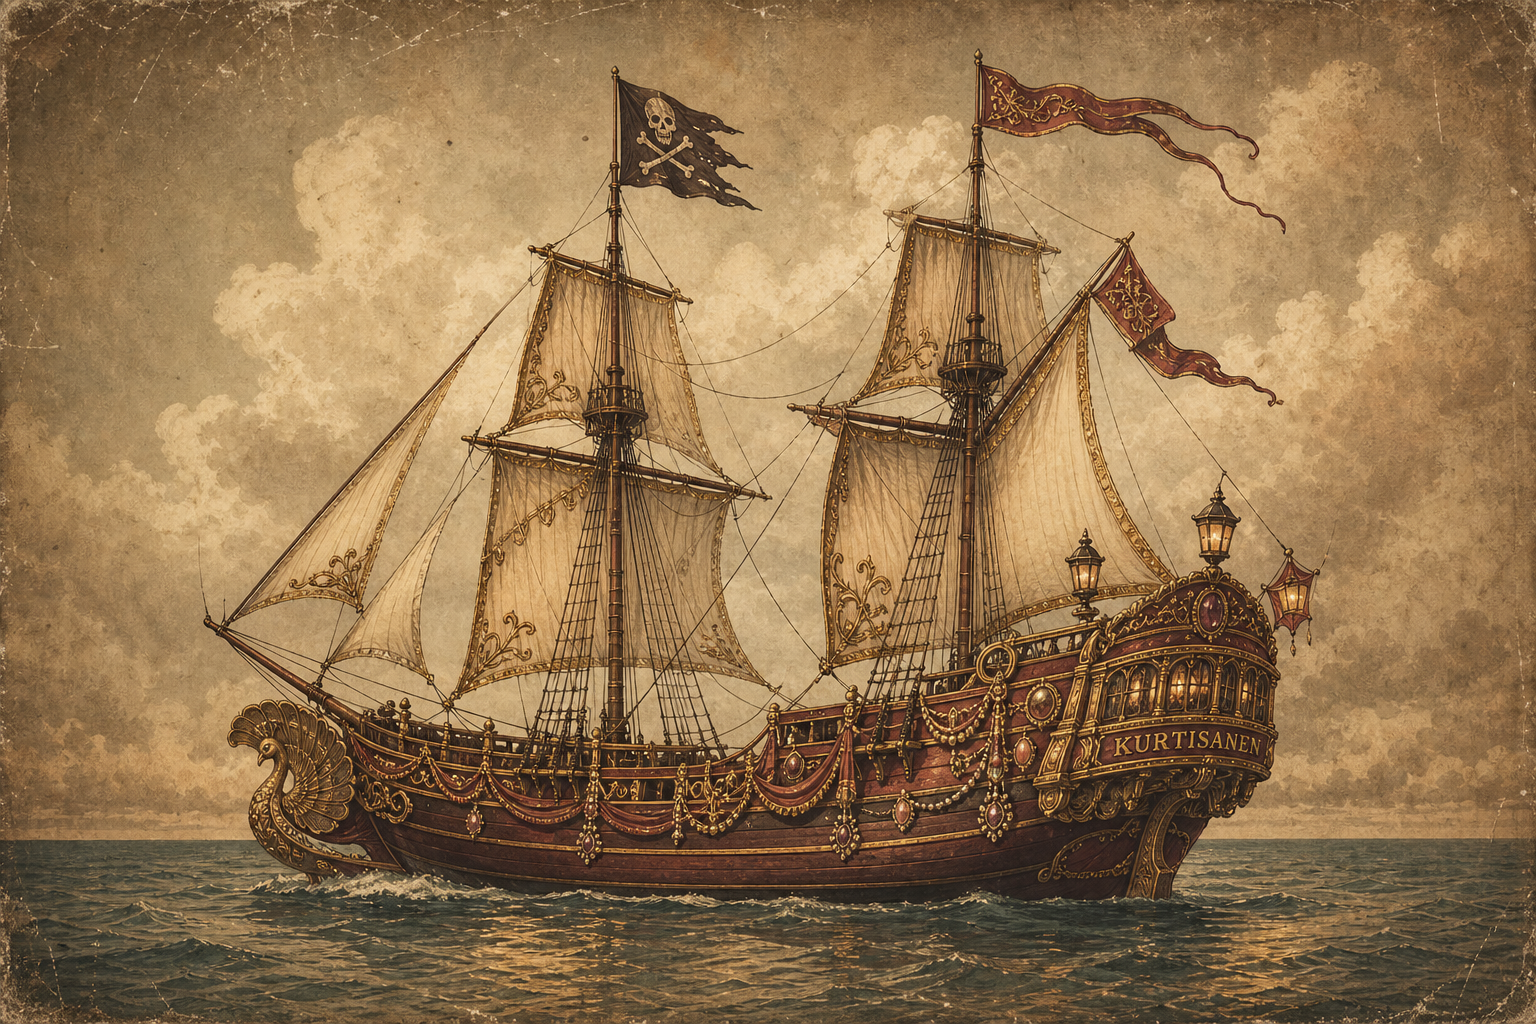
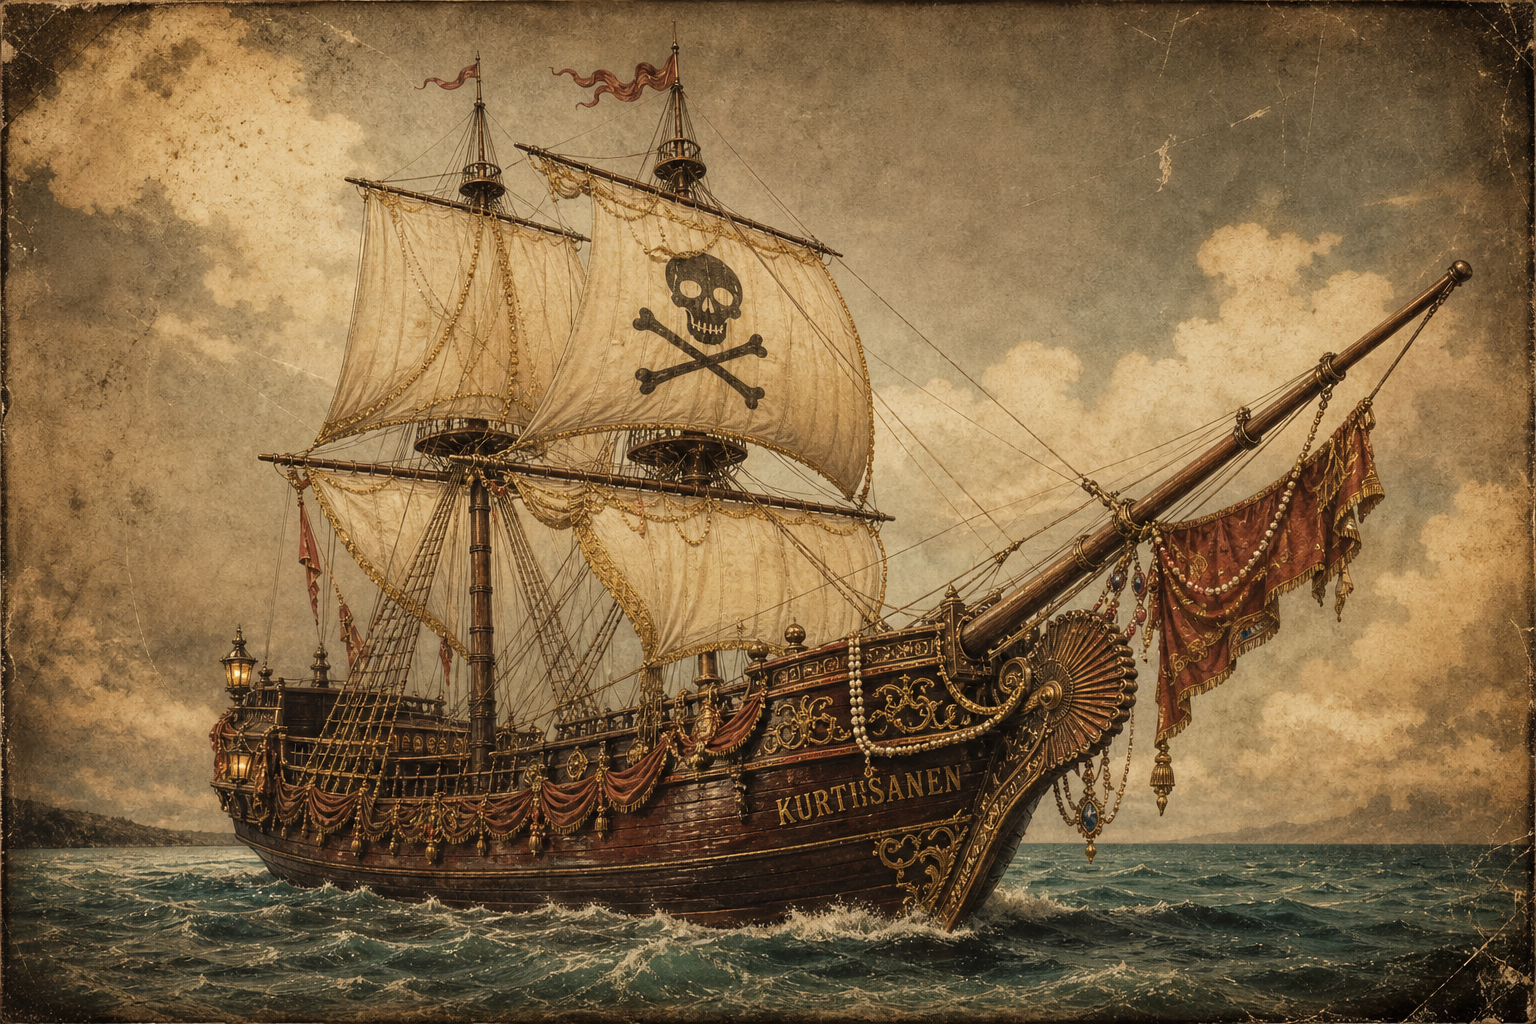
Rikta skeppsporträtten mot fören, och gör Fördärvet till synd inte ruin.
Namnet sitter på fören. Fördärvet är frosseri och dåliga vanor, inte ett vrak.

diff --git a/scripts/generate-ships.js b/scripts/generate-ships.js
@@ -30,11 +30,18 @@ Theatrical "dress-up" feel: stage costume and theatrical props rather than histo
 
 Treatment: sepia / warm brown / antique photographic finish — scratches, film grain, faint watermark, tintype / wet-plate texture, slightly faded and tarnished. Antique hand-coloured engraving / vintage cigarette-card chromolithograph of a tall ship. Limited palette: sepia, warm browns, cream, muted gold, faded rust-red, faded teal water — often slightly faded.`
 
-const SHARED = `PORTRAIT OF A SINGLE PIRATE SHIP as the hero of the image. Landscape marine painting, 3:2 frame. Three-quarter broadside view so hull, masts and stern are all readable. The ENTIRE ship fits inside the frame with generous sky and water margin — nothing cropped. Empty decks: no people, no faces, no silhouettes on board. Painted theatrical sea-and-sky backdrop, foxed paper, soft vignette. The ship is a stage prop built a little too grand — slightly wrong proportions, slightly over-decorated, charmingly imperfect.`
+const BOW_COMPOSITION = `HIGHEST PRIORITY — HONEST SHIP GEOMETRY, BOW TOWARD THE VIEWER:
+The ship must look like a real hull, not a twisted display model. Bow (front) nearer the camera than the stern. Choose ONE of: (A) sailing TOWARD the viewer, bow-on / three-quarter approaching, or (B) true SIDEWAYS profile, hull parallel to the picture plane, sailing left-to-right or right-to-left. The bowsprit points into or across the frame, never away.
+
+FORBIDDEN: sailing away, stern-on, transom facing the camera, hull wrenched around so the back of the ship is shown, "twisted" perspective that displays the nameplate by rotating the stern toward us. The stern may recede or sit in profile — it must not be the hero of the pose.
+
+NAME ON THE BOW ONLY: paint the ship's name in large readable letters on the bow / forecastle / under the bowsprit. NOT on the transom, NOT on the stern gallery.`
+
+const SHARED = `PORTRAIT OF A SINGLE PIRATE SHIP as the hero of the image. Landscape marine painting, 3:2 frame. The ENTIRE ship fits inside the frame with generous sky and water margin — nothing cropped. Empty decks: no people, no faces, no silhouettes on board. Painted theatrical sea-and-sky backdrop, foxed paper, soft vignette. The ship is a stage prop built a little too grand — slightly wrong proportions, slightly over-decorated, charmingly imperfect.`
 
 const NO_PEOPLE = `CRITICAL: Absolutely no people, no faces, no hands, no crew, no silhouettes, no body parts, no mermaids, no figurehead with a realistic human face (stylised carved wood only). Empty ship — vessel and atmosphere only.`
 
-const NEG = `No people, no person, no face, no crew, no crowd, no portrait subject, no modern ship, no steam, no steel hull, no container ship, no yacht, no motorboat, no Pirates of the Caribbean look, no Disney pirate aesthetic, no Jack Sparrow, no glossy CGI, no photorealistic naval photography, no bright saturated neon, no clean digital vector, no watermark text, no UI, no logo, no picture frame around the image, no other ships in the scene.`
+const NEG = `No people, no person, no face, no crew, no crowd, no portrait subject, no modern ship, no steam, no steel hull, no container ship, no yacht, no motorboat, no Pirates of the Caribbean look, no Disney pirate aesthetic, no Jack Sparrow, no glossy CGI, no photorealistic naval photography, no bright saturated neon, no clean digital vector, no watermark text, no UI, no logo, no picture frame around the image, no other ships in the scene. No stern-first view, no ship sailing away from the camera, no transom nameplate, no name on the stern, no twisted hull posed only to show the back.`
 
 /** @type {{ id: number, file: string, aliases: string[], size: string, prompt: string }[]} */
 const SHIPS = [
@@ -45,16 +52,16 @@ const SHIPS = [
     size: '1536x1024',
     prompt: `Korvetten Kurtisanen — Svarta Malin's own small, fast, show-off corvette.
 
-A sleek 18th-century CORVETTE (smaller than a frigate, two masts, low elegant hull) dressed like a courtesan's parlour gone to sea. Gilded stern gallery, pearl and jewel-like ornaments, rust-red silk banners and gold braid, cream sails with gold trim, lanterns glowing, a carved wooden fan or peacock as figurehead (stylised wood, not a person). Jolly Roger with a theatrical skull-and-crossbones. The hull is painted a warm dark wine-brown with gold scrollwork. Mood: ostentatious harbour flagship — caviar and rum, every rival meant to feel underdressed. Name "KURTISANEN" lettered on the transom in slightly wobbly gold.`,
+A sleek 18th-century CORVETTE (smaller than a frigate, two masts, low elegant hull) dressed like a courtesan's parlour gone to sea. Pearl and jewel-like ornaments along the bow, rust-red silk banners and gold braid, cream sails with gold trim, lanterns glowing, a carved wooden fan or peacock as figurehead (stylised wood, not a person). Jolly Roger with a theatrical skull-and-crossbones. The hull is painted a warm dark wine-brown with gold scrollwork. Mood: ostentatious harbour flagship — caviar and rum, every rival meant to feel underdressed. Name "KURTISANEN" lettered large on the BOW in slightly wobbly gold.`,
   },
   {
     id: 2,
     file: 'ship-2-fordarvet.png',
     aliases: ['2', 'fordarvet', 'fördärvet', 'fregatten-fordarvet'],
     size: '1536x1024',
-    prompt: `Fregatten Fördärvet — the ruined frigate that boarded the same prize as Svarta Malin and was left with nothing.
+    prompt: `Fregatten Fördärvet — a frigate of vice: sin, gluttony and rotten habits, not death.
 
-A battered 18th-century FRIGATE (three masts, more guns) in charcoal, soot and faded rust-red. Torn and patched sails, blackened hull, smoking cannon ports, cracked timber, a lopsided carved wooden skull figurehead (stylised, not a person). Tattered Jolly Roger. The ship looks expensive once, now wrecked on purpose — ruin shared unevenly. Moody storm-grey water, ochre lightning far off. Mood: vengeance at anchor, still dangerous. Name "FÖRDÄRVET" lettered on the transom in worn iron-gall.`,
+An 18th-century FRIGATE (three masts) dressed as a floating tavern of excess gone sour. Wine-dark hull stained with spilled grog, greasy gold trim, rum barrels and empty bottles lashed to the rails, dice and playing-card motifs on the sails, a stained velvet banner, overflowing carved wooden goblet or hog as figurehead (stylised wood, not a person — no skull). Cream sails blotched with wine and grease. Mood: frosseri, dåliga vanor, synd — hungover splendour, too much of everything, perdition as appetite not as a grave. Warm tavern-lantern light, ochre and faded rust-red, no storm-of-the-dead, no lightning, no bones. Name "FÖRDÄRVET" lettered on the BOW in wine-stained gold.`,
   },
   {
     id: 3,
@@ -63,16 +70,16 @@ A battered 18th-century FRIGATE (three masts, more guns) in charcoal, soot and f
     size: '1536x1024',
     prompt: `Barken Bortförklaringen — the barque of elegant excuses, prejad three times and always blaming the weather.
 
-An 18th-century BARQUE (three masts, the aftermost mast fore-and-aft rigged) half-lost in theatrical fog. Mismatched patched sails (stripes, polka dots, different cloth as if every excuse is a different patch), slightly listing hull, drooping flags, rain-streaked deck. Soft grey-cream and muted teal fog, no storm drama — just weather as an alibi. A carved wooden weather-vane or apologetic shrug of a figurehead (stylised wood, not a person). Mood: fog, drift, the last elegant excuse. Name "BORTFÖRKLARINGEN" lettered on the transom, a little crooked, as if the letters themselves are hedging.`,
+An 18th-century BARQUE (three masts, the aftermost mast fore-and-aft rigged) half-lost in theatrical fog. Mismatched patched sails (stripes, polka dots, different cloth as if every excuse is a different patch), slightly listing hull, drooping flags, rain-streaked deck. Soft grey-cream and muted teal fog, no storm drama — just weather as an alibi. A carved wooden weather-vane or apologetic shrug of a figurehead (stylised wood, not a person). Mood: fog, drift, the last elegant excuse. Name "BORTFÖRKLARINGEN" lettered on the BOW, a little crooked, as if the letters themselves are hedging.`,
   },
   {
     id: 4,
     file: 'ship-4-fromheten.png',
     aliases: ['4', 'fromheten', 'fregatten-fromheten'],
     size: '1536x1024',
-    prompt: `Fregatten Fromheten — the pious pirates' frigate: clean hands, hymn-book stern, pirate socialism at sea.
+    prompt: `Fregatten Fromheten — the pious pirates' frigate: clean hands, hymn-book bow, pirate socialism at sea.
 
-A tidy 18th-century FRIGATE (three masts) whitewashed and over-clean for a pirate ship — cream and bone-white sails, pale hull with faded rust-red crosses mixed into the Jolly Roger, a carved wooden hymn-book or haloed skull as figurehead (stylised wood, not a person). Ledger-neat rigging that is still slightly wrong, theatrical holiness. Soft church-candle light on the stern gallery. Mood: fake sanctimony, räkenskaper and psalms, rena händer that hide a treasure. Name "FROMHETEN" lettered on the transom in careful but imperfect serif.`,
+A tidy 18th-century FRIGATE (three masts) whitewashed and over-clean for a pirate ship — cream and bone-white sails, pale hull with faded rust-red crosses mixed into the Jolly Roger, a carved wooden hymn-book or haloed skull as figurehead (stylised wood, not a person). Ledger-neat rigging that is still slightly wrong, theatrical holiness. Soft church-candle light on the bow lanterns. Mood: fake sanctimony, räkenskaper and psalms, rena händer that hide a treasure. Name "FROMHETEN" lettered on the BOW in careful but imperfect serif.`,
   },
   {
     id: 5,
@@ -81,12 +88,12 @@ A tidy 18th-century FRIGATE (three masts) whitewashed and over-clean for a pirat
     size: '1536x1024',
     prompt: `Galeonen Gnället — the loudest galleon in Salmonellahavet, invited as the orchestra of complaints.
 
-A large 18th-century GALLEON (high ornate stern castle, bulky hull, three or four masts) overloaded with too many pennants, bells, rattles and mismatched flags — visual noise. Cheap gold that flakes, a carved wooden open-mouth / shouting figurehead (stylised wood, not a person). Cluttered empty decks piled with theatrical props: drums, horns, a megaphone, tangled rope. Palette: faded rust-red, ochre, cream, too much trim. Mood: complaint as performance — they were invited because they are heard. Name "GNÄLLET" lettered large on the high stern, slightly shouting.`,
+A large 18th-century GALLEON (high ornate stern castle receding behind, bulky hull, three or four masts) overloaded with too many pennants, bells, rattles and mismatched flags — visual noise. Cheap gold that flakes, a carved wooden open-mouth / shouting figurehead (stylised wood, not a person). Cluttered empty decks piled with theatrical props: drums, horns, a megaphone, tangled rope. Palette: faded rust-red, ochre, cream, too much trim. Mood: complaint as performance — they were invited because they are heard. Name "GNÄLLET" lettered large on the BOW, slightly shouting.`,
   },
 ]
 
 function buildFullPrompt(ship) {
-  return `${NO_PEOPLE} ${SHARED} ${ship.prompt} ${STYLE_GUIDE} ${NEG}`
+  return `${BOW_COMPOSITION} ${NO_PEOPLE} ${SHARED} ${ship.prompt} ${STYLE_GUIDE} ${NEG} ${BOW_COMPOSITION}`
 }
 
 function matchShip(token) {
